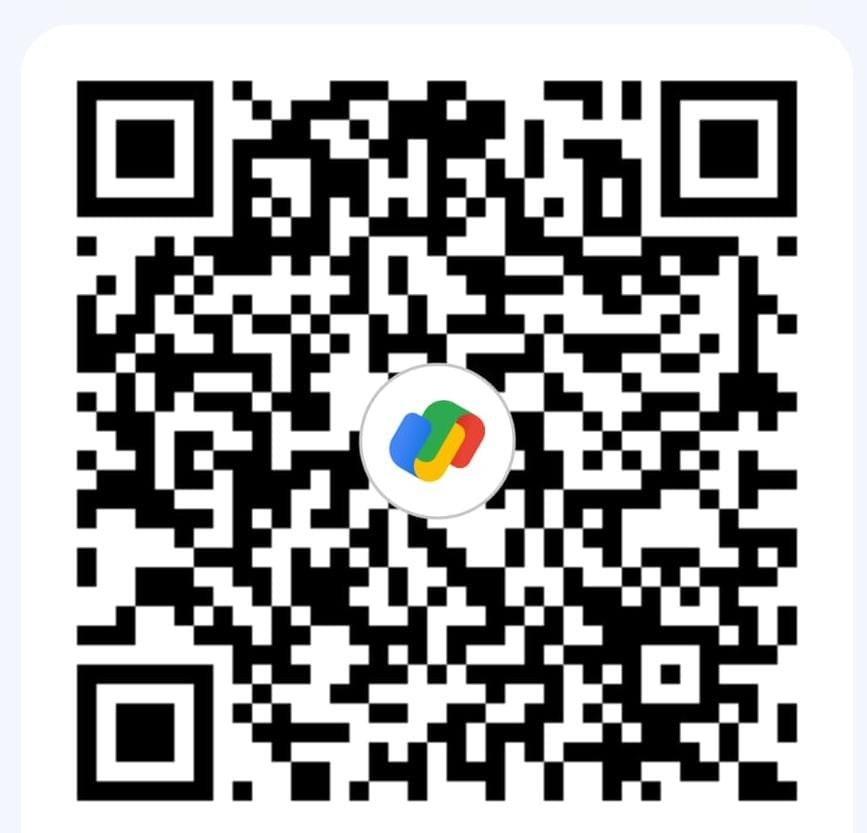
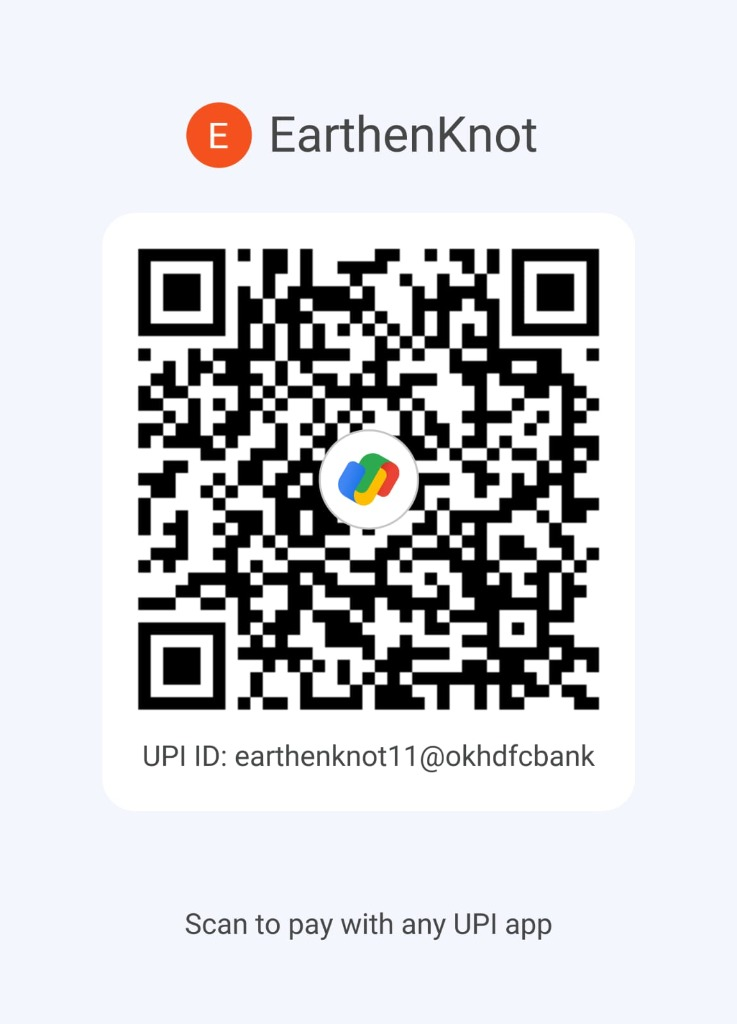
Replace QR code with EarthenKnot official UPI QR code (earthenknot11@okhdfcbank)

diff --git a/checkout.html b/checkout.html
@@ -256,15 +256,18 @@
           <div id="section-upi" class="payment-info-section" style="display: none;">
             <div class="qr-card">
               <div class="qr-image-box">
-                <img src="assets/payment-qr.jpg?v=3" alt="Cardign Official Payment QR Code" style="width: 190px; height: 190px; object-fit: contain; border-radius: 10px;">
+                <img src="assets/payment-qr.jpg?v=4" alt="EarthenKnot Payment QR Code" style="width: 190px; height: 190px; object-fit: contain; border-radius: 10px;">
               </div>
               <div>
-                <div style="margin-bottom: 1rem;">
-                  <span style="font-size: 0.85rem; color: var(--text-light); display: block; margin-bottom: 0.25rem;">Merchant Account</span>
-                  <strong style="font-size: 1.5rem; color: var(--primary-dark);">Cardign</strong>
+                <div style="margin-bottom: 0.85rem;">
+                  <span style="font-size: 0.85rem; color: var(--text-light); display: block; margin-bottom: 0.2rem;">Merchant Account</span>
+                  <strong style="font-size: 1.4rem; color: var(--primary-dark);">EarthenKnot</strong>
+                  <div style="margin-top: 0.35rem; display: inline-block; background: rgba(108, 120, 92, 0.12); padding: 0.3rem 0.75rem; border-radius: 20px; font-size: 0.85rem; font-weight: 600; color: var(--primary-dark);">
+                    UPI ID: earthenknot11@okhdfcbank
+                  </div>
                 </div>
-                <p style="font-size: 0.95rem; color: var(--text); margin: 0; line-height: 1.6;">
-                  Please scan the QR code above to complete your payment. Once the payment is received, our team will contact you within 3 hours to confirm your transaction and arrange delivery.
+                <p style="font-size: 0.9rem; color: var(--text); margin: 0; line-height: 1.5;">
+                  Scan the QR code with any UPI app (GPay, PhonePe, Paytm) to complete payment. Our team will verify and arrange dispatch.
                 </p>
               </div>
             </div>
